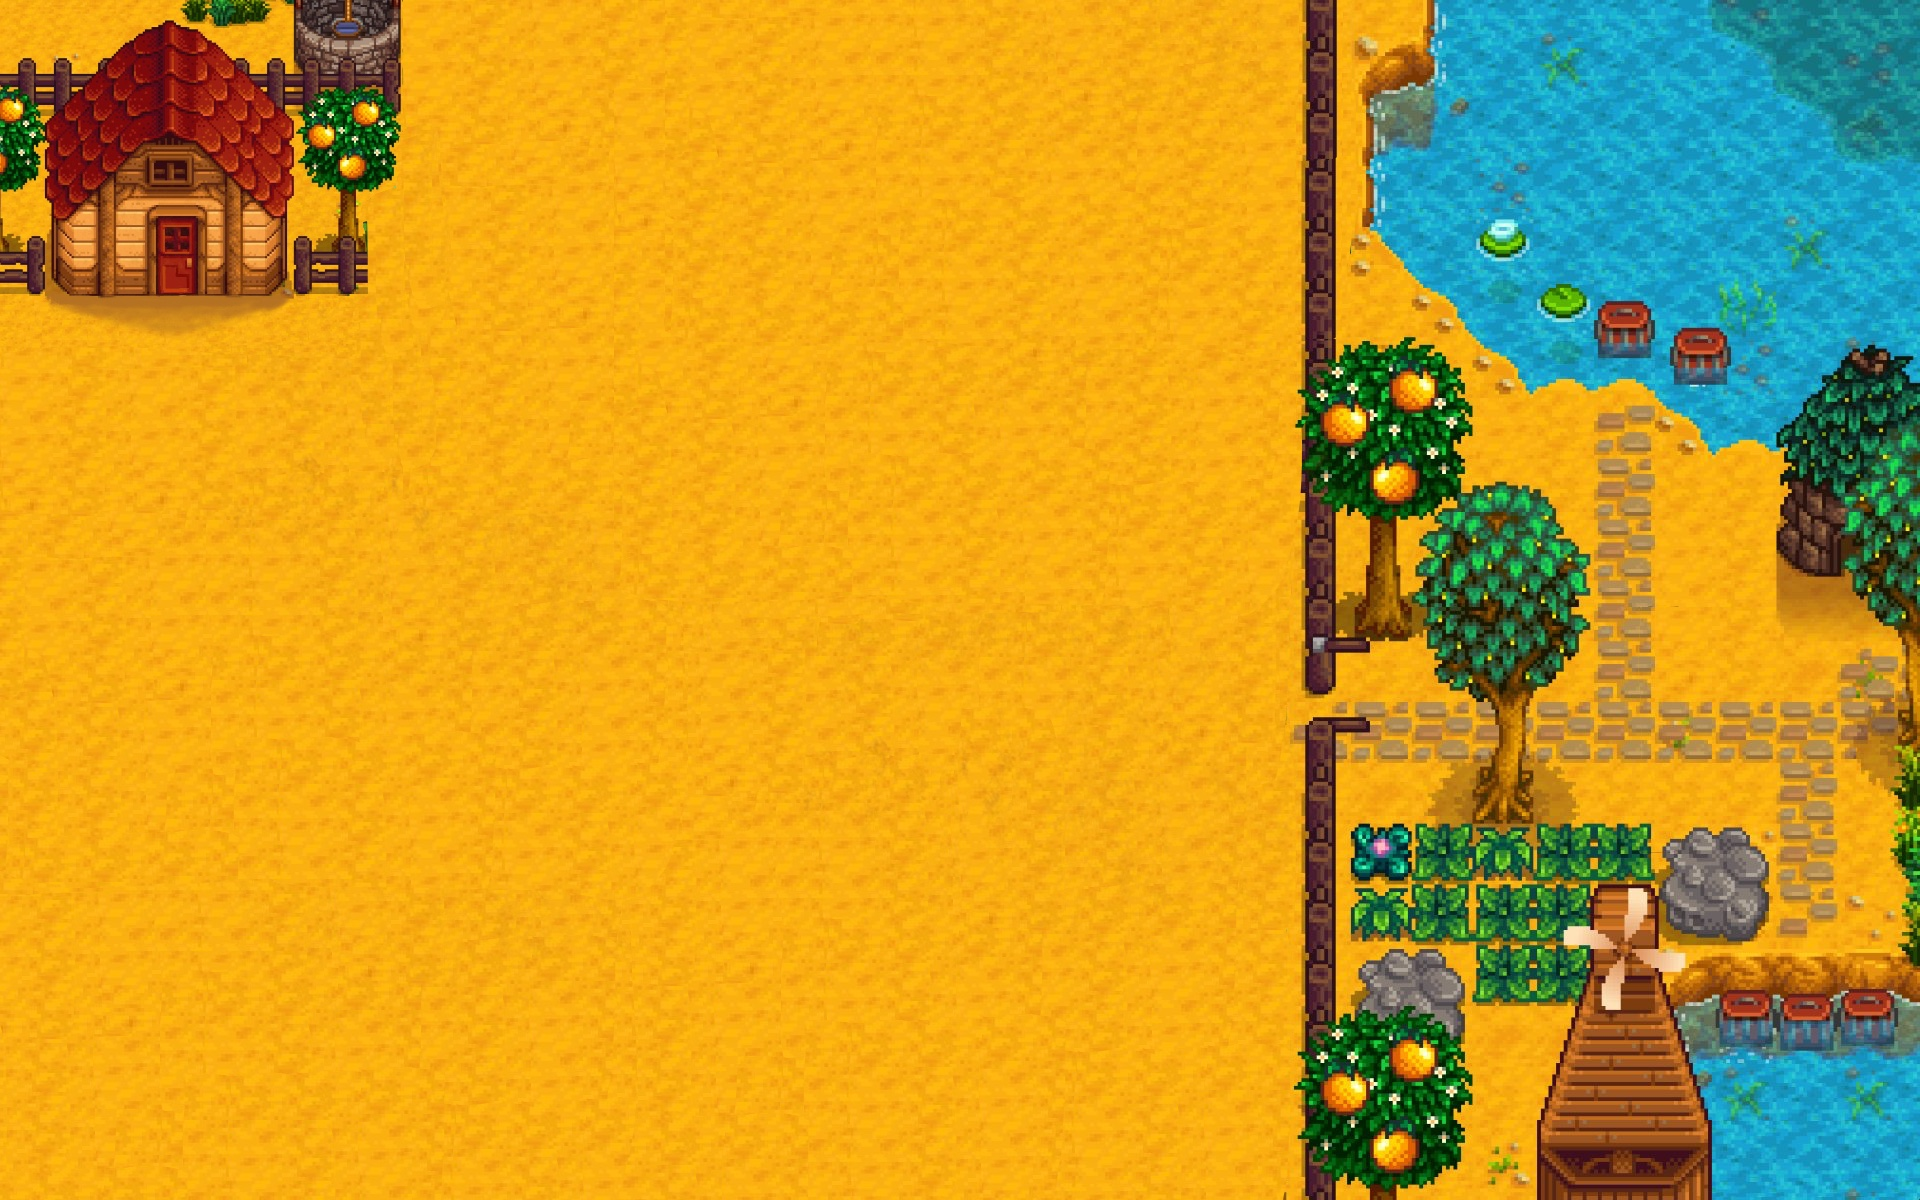
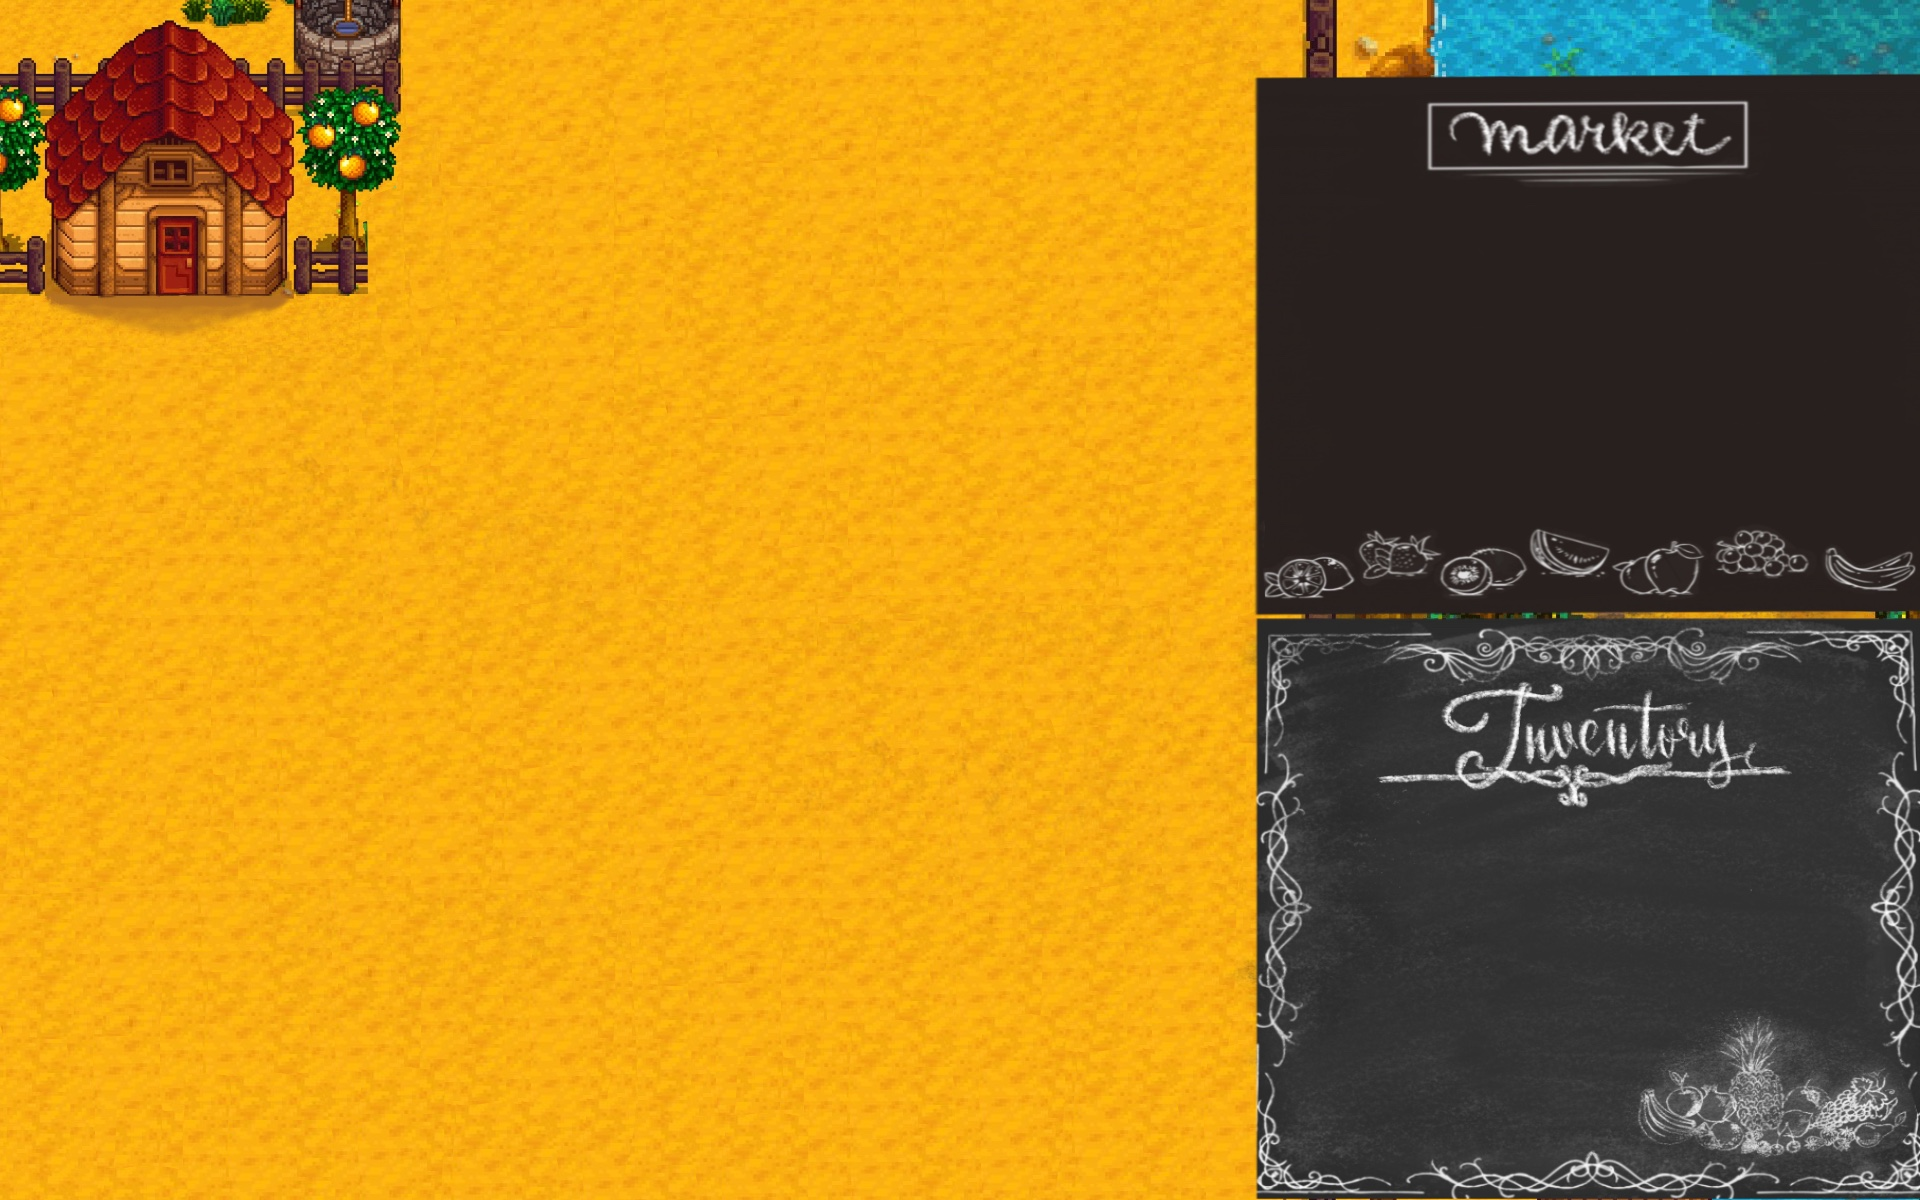
update background

diff --git a/src/main/style.css b/src/main/style.css
@@ -278,7 +278,7 @@
 }
 
 #marketHolder {
-    -fx-background-color: blue;
+    /*-fx-background-color: blue;*/
 }
 
 .marketListingPane {
@@ -294,7 +294,7 @@
 }
 
 #inventoryHolder {
-    -fx-background-color: purple;
+    /*-fx-background-color: purple;*/
 }
 
 #pauseButtonGS {
